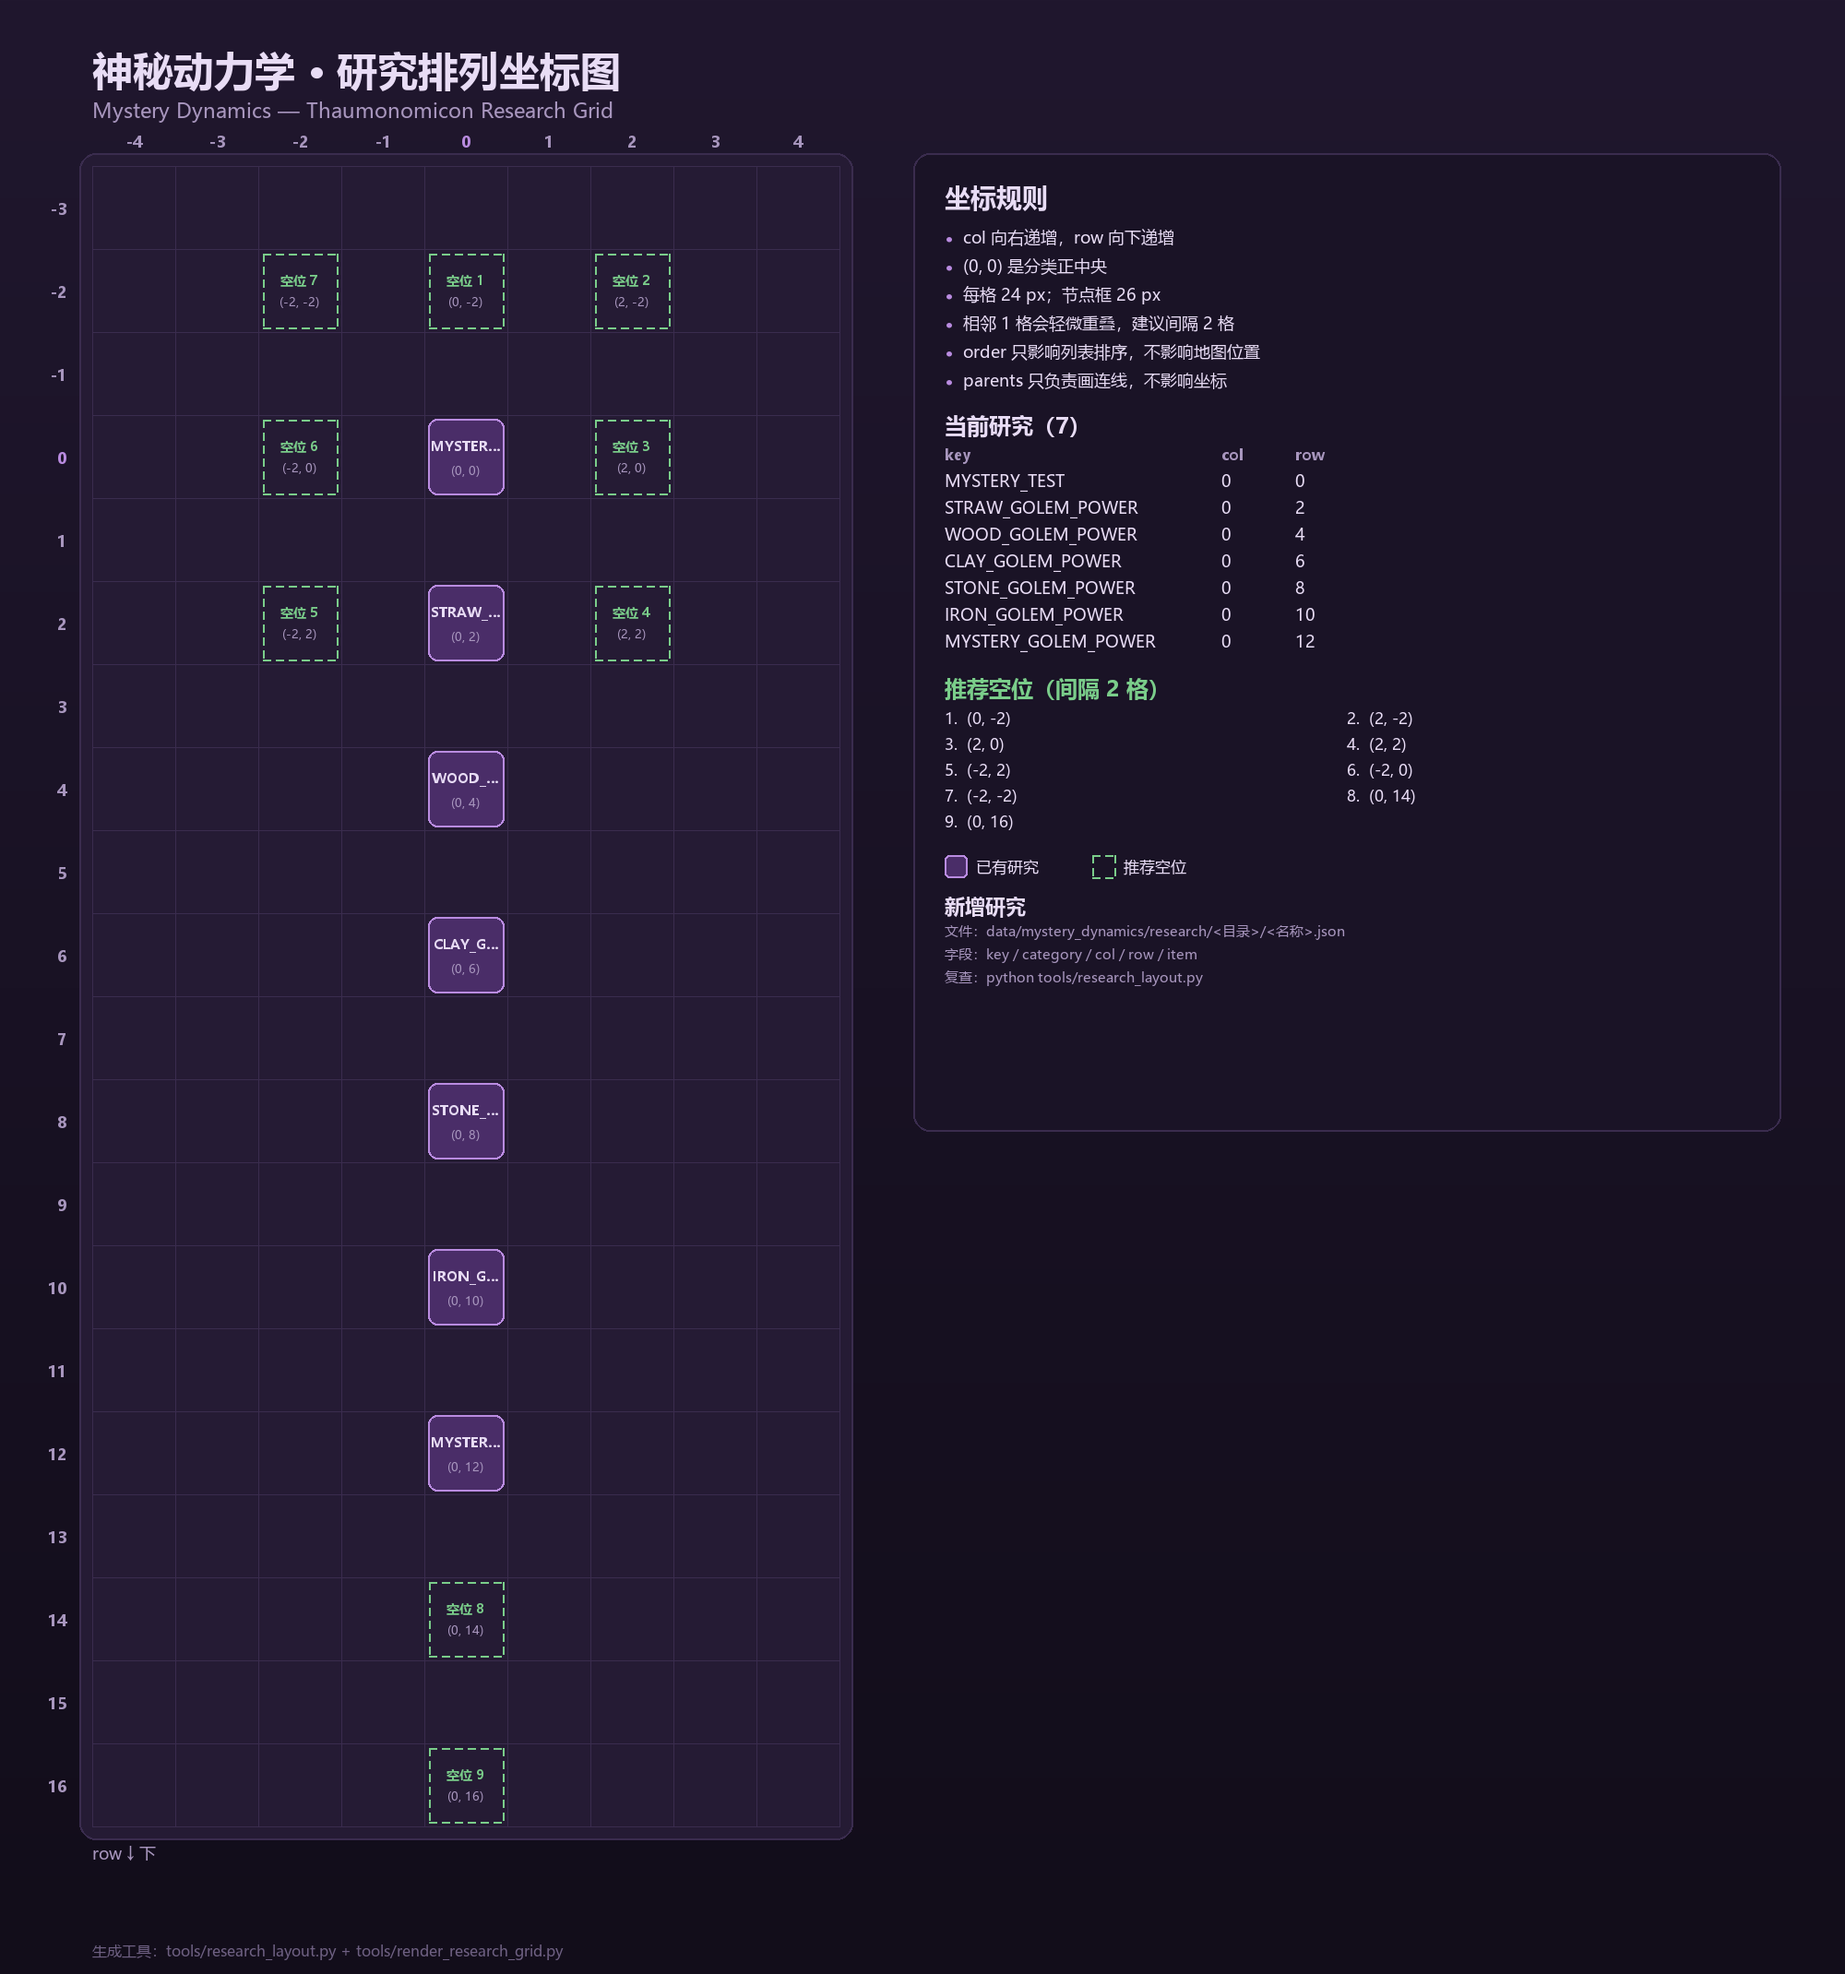
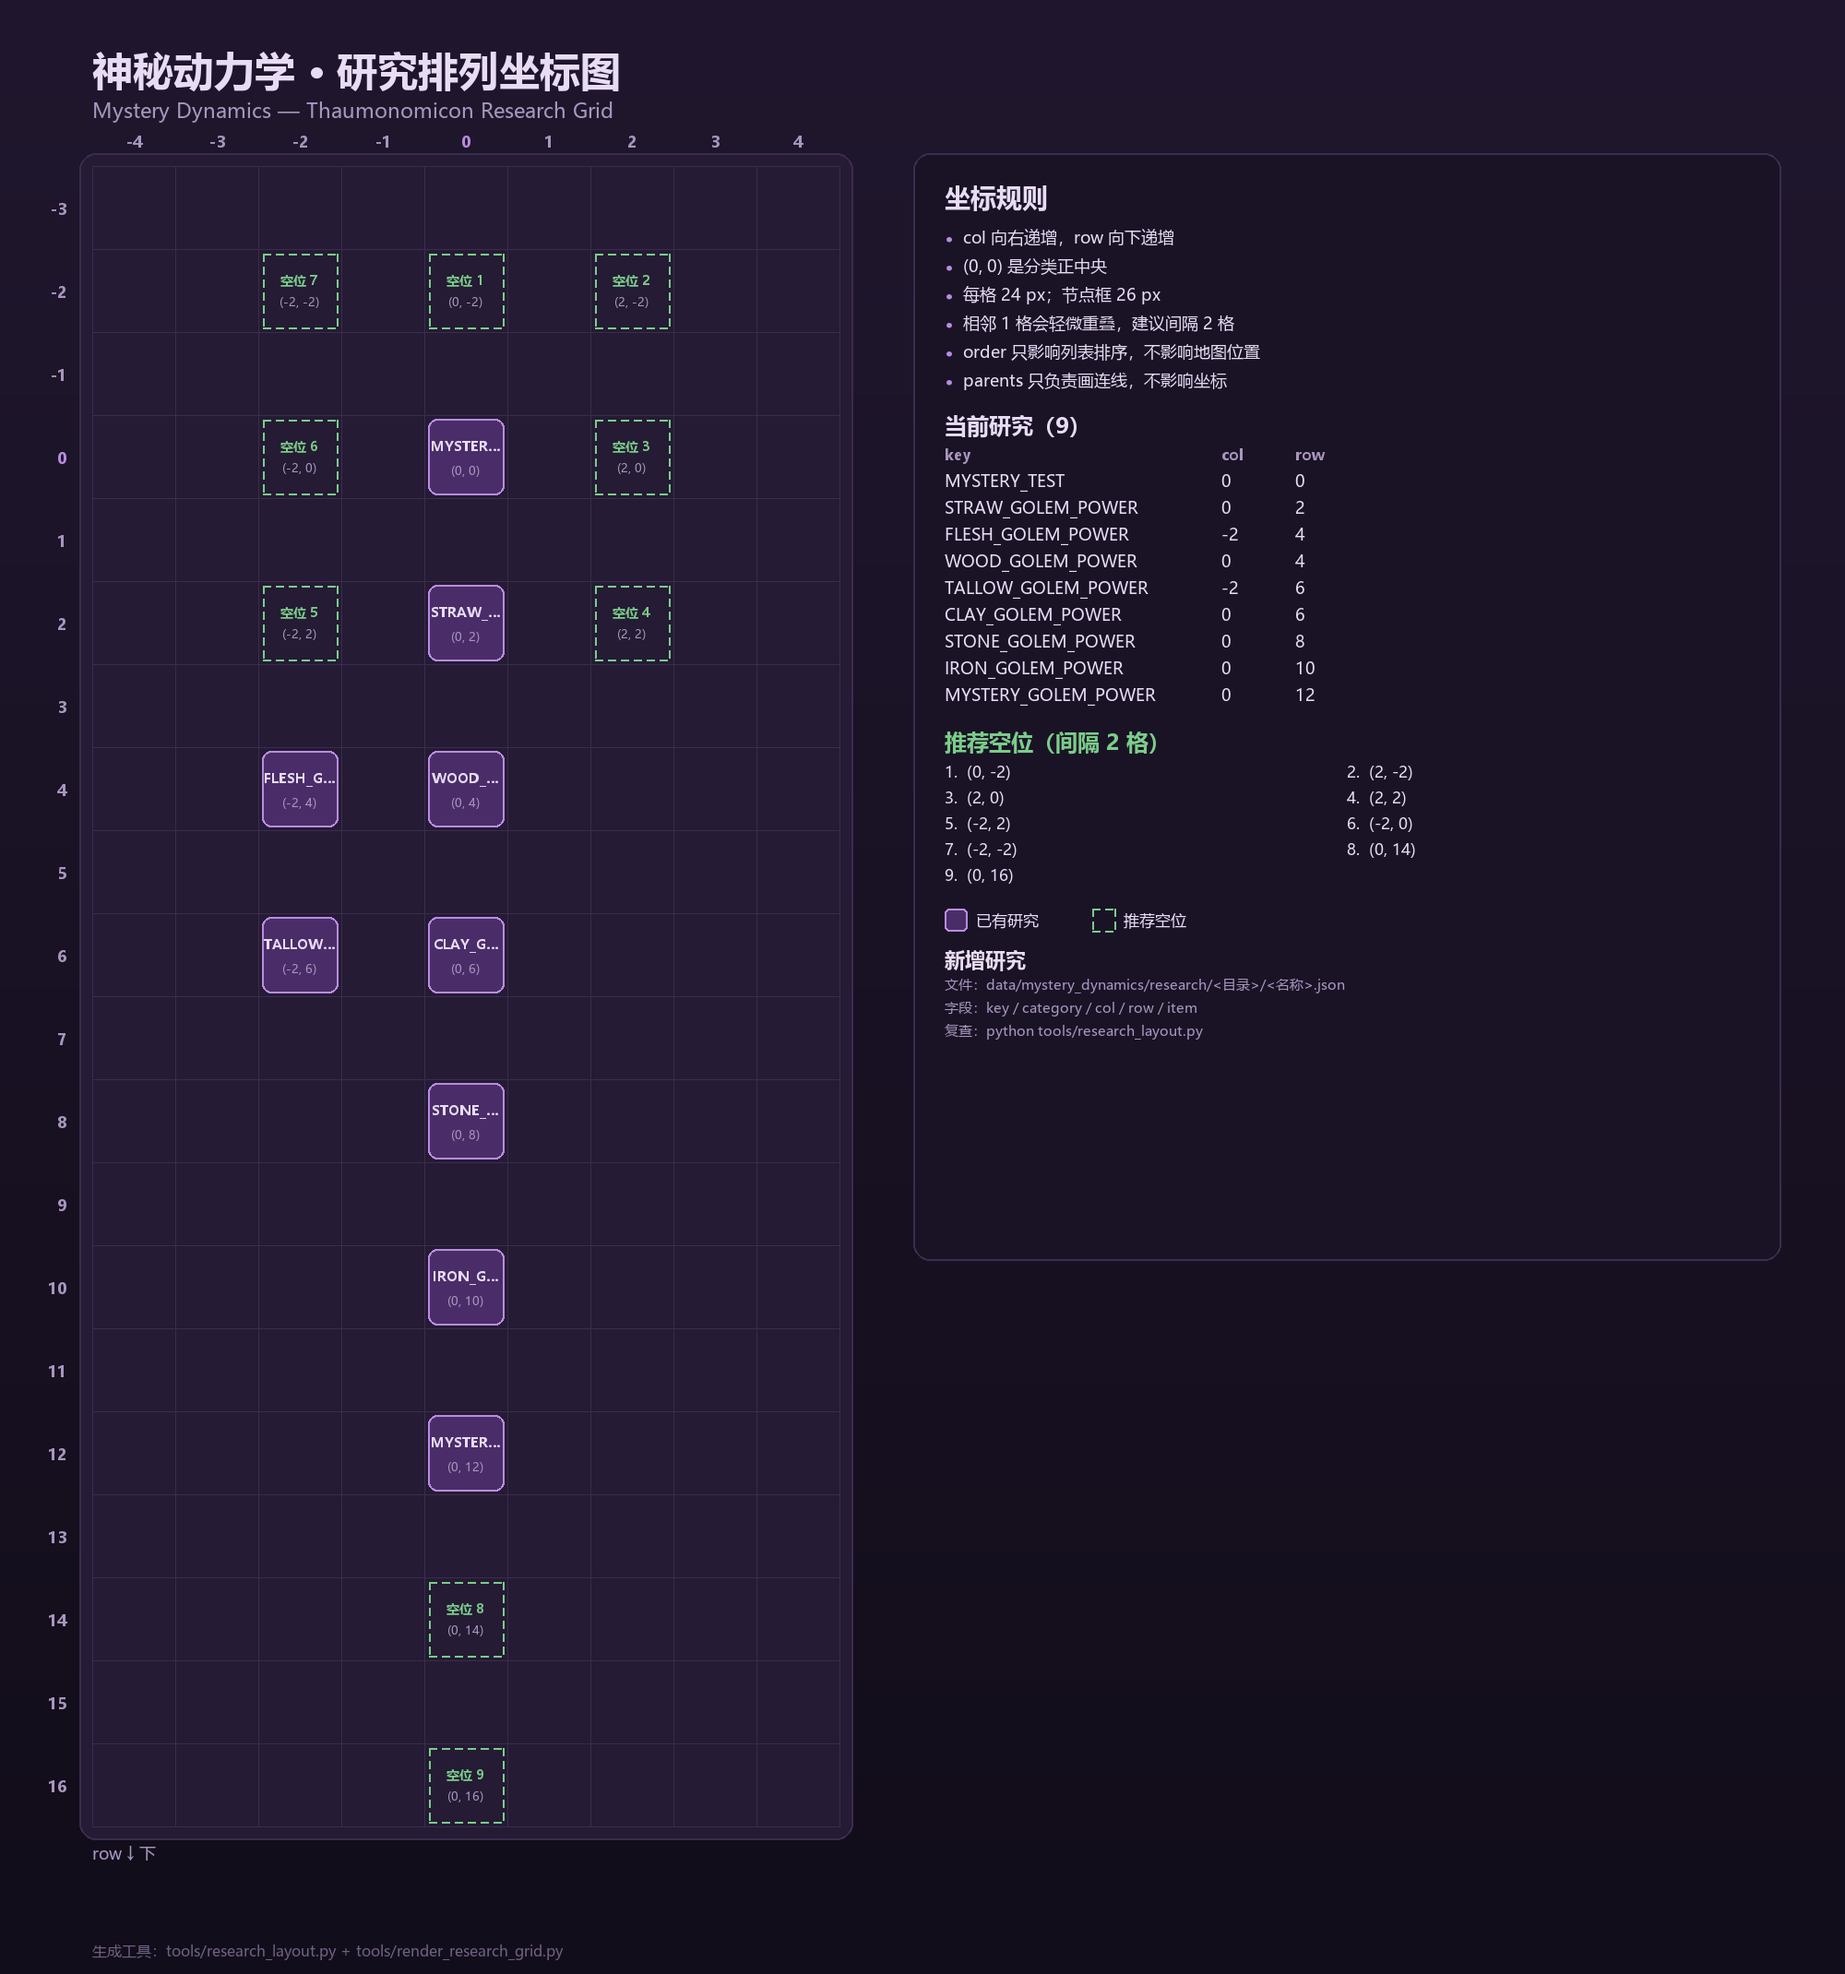
feat: 血肉/油脂研究改为研究笔记解锁（0.4.4）

diff --git a/tools/render_research_grid.py b/tools/render_research_grid.py
@@ -153,7 +153,7 @@ def main():
     # 右侧信息面板
     px = GX + gw + 80
     pw = W - px - 70
-    panel_h = 1060
+    panel_h = 1200
     draw.rounded_rectangle([px, GY - 14, px + pw, GY - 14 + panel_h], radius=18,
                            fill=(26, 19, 38), outline=GRID_LINE, width=2)
     tx = px + 34

diff --git a/README.md b/README.md
@@ -48,21 +48,22 @@
 - 分类图标：`textures/research/tab_icon.png`（32×32）
 - 分类背景：`textures/research/background.png`（512×512）
 - 分类顺序 6，排在「神秘」之后
-- 分类中央（col 0 / row 0）：测试研究 **MYSTERY_TEST**，图标为 `textures/research/test_icon.png`（图标.png），占位文本
-- 设备研究链（col 0，自上而下）：
+- 设备研究链：
 
-| 研究 | 坐标 | 前置 | 研究点消耗 |
+| 研究 | 坐标 | 前置 | 解锁方式 |
 |---|---|---|---|
-| STRAW_GOLEM_POWER 稻草傀儡动力系统 | (0, 2) | GOLEMSTRAW | motus 6 / instrumentum 3 / machina 3 |
-| WOOD_GOLEM_POWER 木头傀儡动力系统 | (0, 4) | GOLEMWOOD + STRAW_GOLEM_POWER | 同上 |
-| CLAY_GOLEM_POWER 粘土傀儡动力系统 | (0, 6) | GOLEMCLAY + WOOD_GOLEM_POWER | 同上 |
-| STONE_GOLEM_POWER 石头傀儡动力系统 | (0, 8) | GOLEMSTONE + CLAY_GOLEM_POWER | 同上 |
-| IRON_GOLEM_POWER 铁卫傀儡动力系统 | (0, 10) | GOLEMIRON + STONE_GOLEM_POWER | 同上 |
-| MYSTERY_GOLEM_POWER 神秘傀儡动力系统 | (0, 12) | GOLEMTHAUMIUM + IRON_GOLEM_POWER | 同上 |
+| STRAW_GOLEM_POWER 稻草傀儡动力系统 | (0, 2) | GOLEMSTRAW | `secondary`，点击直接扣 motus 6 / instrumentum 3 / machina 3 |
+| FLESH_GOLEM_POWER 血肉傀儡动力系统 | (-2, 4) | GOLEMFLESH + STRAW_GOLEM_POWER | 研究笔记（血肉笔记 + fabrico 3），warp 3 |
+| WOOD_GOLEM_POWER 木头傀儡动力系统 | (0, 4) | GOLEMWOOD + STRAW_GOLEM_POWER | 研究笔记（木头笔记 + fabrico 3） |
+| TALLOW_GOLEM_POWER 油脂傀儡动力系统 | (-2, 6) | GOLEMTALLOW + WOOD_GOLEM_POWER | 研究笔记（油脂笔记 + fabrico 3） |
+| CLAY_GOLEM_POWER 粘土傀儡动力系统 | (0, 6) | GOLEMCLAY + WOOD_GOLEM_POWER | 研究笔记（粘土笔记 + fabrico 3） |
+| STONE_GOLEM_POWER 石头傀儡动力系统 | (0, 8) | GOLEMSTONE + CLAY_GOLEM_POWER | 研究笔记（石头笔记 + fabrico 3） |
+| IRON_GOLEM_POWER 铁卫傀儡动力系统 | (0, 10) | GOLEMIRON + STONE_GOLEM_POWER | 研究笔记（铁卫笔记 + fabrico 3） |
+| MYSTERY_GOLEM_POWER 神秘傀儡动力系统 | (0, 12) | GOLEMTHAUMIUM + IRON_GOLEM_POWER | 研究笔记（神秘笔记 + fabrico 3） |
 
-- 所有设备研究都带 `secondary`：默认研究难度（`research_difficulty = 0`）下，在书中点击即可直接扣除研究点解锁；难度设为 1 时仍需研究笔记
-- (0, 14) 与 (0, 16) 仍为空位，可继续补血肉、油脂傀儡动力系统
-
+- 只有稻草带 `secondary`（默认难度 `research_difficulty = 0` 时点击直接扣点）；其余研究不带 `secondary`，点击会生成研究笔记，要素 = 对应傀儡研究要素 + `fabrico` 3
+- 血肉研究的 `warp` 与傀儡学血肉研究一致，为 3
+- (0, 14) 与 (0, 16) 仍为空位
 研究内容全部是数据包 JSON，不需要编译期依赖神秘时代：
 
 - `data/mystery_dynamics/research_category/mystery_dynamics.json`
